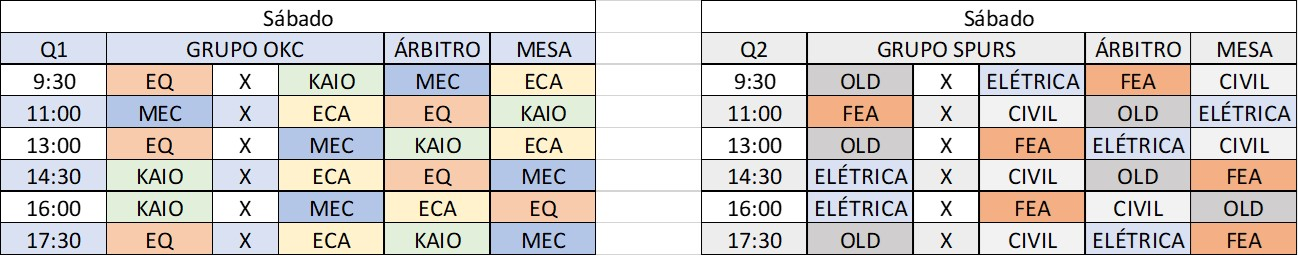
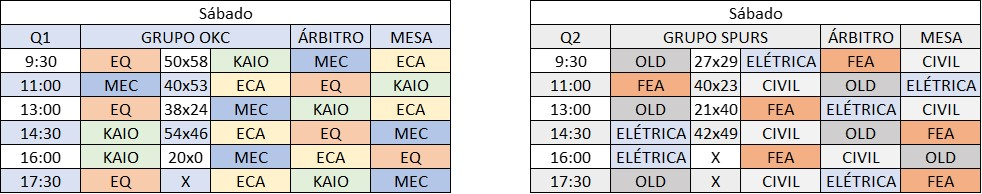
kaiopeonato

Changed region(s): [[0.0, 0.0, 1.0, 1.0]]

diff --git a/docs/2kaiopeonato.html b/docs/2kaiopeonato.html
@@ -53,7 +53,32 @@
              
             </div>
         </section>
-            
+        <section class="materias">
+            <header class="depoimento_conteudo bloco_cabecalho_degrade">Resultados dos jogos Sábado</a></header>
+            <div class="segundapagina espaco">   
+               
+                <img class="shoot" src="galeria/cronograma2kaiopeonato.jpg">
+                
+            </div>
+        </section>
+        <section class="materias">
+            <header class="depoimento_conteudo bloco_cabecalho_degrade">Grupos e classificação</a></header>
+            <div class="segundapagina espaco">   
+               
+                <img class="shoot" src="galeria/grupos2kaiopeonato.jpg">
+                
+            </div>
+        </section>
+        
+
+        <section class="materias">
+            <header class="depoimento_conteudo bloco_cabecalho_degrade">Cronograma Domingo</a></header>
+            <div class="segundapagina espaco">   
+               
+                <img class="shoot" src="galeria/cronograma22kaiopeonato.jpg">
+                
+            </div>
+        </section>
         <section class="materias">
             <header class="depoimento_conteudo bloco_cabecalho_degrade">Sistema de disputa</a></header>
             <div class="segundapagina espaco">   
@@ -150,31 +175,7 @@
             </div>
         </section>
         
-        <section class="materias">
-            <header class="depoimento_conteudo bloco_cabecalho_degrade">Grupos</a></header>
-            <div class="segundapagina espaco">   
-               
-                <img class="shoot" src="galeria/grupos2kaiopeonato.jpg">
-                
-            </div>
-        </section>
-        <section class="materias">
-            <header class="depoimento_conteudo bloco_cabecalho_degrade">Cronograma Sábado</a></header>
-            <div class="segundapagina espaco">   
-               
-                <img class="shoot" src="galeria/cronograma2kaiopeonato.jpg">
-                
-            </div>
-        </section>
-
-        <section class="materias">
-            <header class="depoimento_conteudo bloco_cabecalho_degrade">Cronograma Domingo</a></header>
-            <div class="segundapagina espaco">   
-               
-                <img class="shoot" src="galeria/cronograma22kaiopeonato.jpg">
-                
-            </div>
-        </section>
+      
     
         <section class="contato bloco ">
             <header class="contato_cabecalho bloco_cabecalho_degrade">Inscrição</header>
